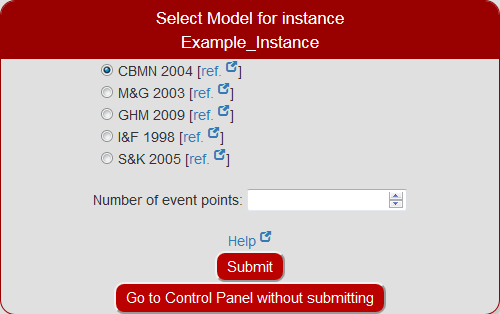
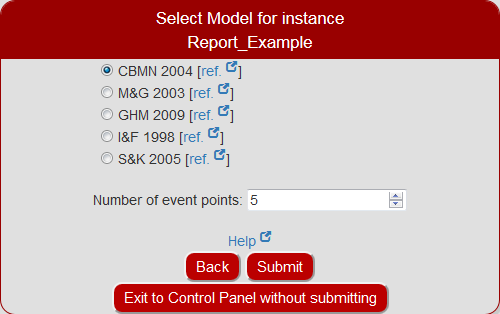
Latest

Changed region(s): [[0.21, 0.8025, 0.78, 1.0], [0.36, 0.1146, 0.66, 0.172], [0.48, 0.6306, 0.54, 0.6592]]

diff --git a/Chapters/5.CaseStudy.tex b/Chapters/5.CaseStudy.tex
@@ -4,7 +4,7 @@
 \section{Instance description}
 In this chapter, we present a case study of a well known scheduling instance from \cite{KONDILI1993211}, optimized for the deterministic case using the described online tool. The production of two products 1 and 2 from three feed stocks A, B and C takes place according to the STN representation given in Fig. \ref{fig:STN}. This instance has four intermediate states and five tasks.
 
-\begin{figure}[htbp]
+\begin{figure}[htb]
 \centering
 \fbox{\includegraphics[width=\linewidth]{Images/STN.png}}
 \caption{State task network for the example instance}
@@ -51,15 +51,13 @@ Separation   &              &             &                &              &     
 
 \section{Defining instance parameters}
 \subsection{Defining units}
-\begin{figure}[htb]
+\begin{figure}[htbp]
 \centering
 \includegraphics[width=\linewidth]{Images/DefineUnits.png}
 \caption{Units input into webtool}
 \label{fig:defUnits}
 \end{figure}
 Unit names and maximum capacities from Table \ref{tab:tasks} are input into the units table of the web tool as shown in Fig. \ref{fig:defUnits}.
-
-
 
 \subsection{Defining states}
 \begin{figure}[htbp]
@@ -72,7 +70,7 @@ State names, maximum storage capacities and initial levels from Table \ref{tab:s
 
 
 \subsection{Defining tasks}
-\begin{figure}[htb]
+\begin{figure}[htbp]
 \centering
 \includegraphics[width=\linewidth]{Images/DefineTasks.png}
 \caption{Tasks input into webtool}
@@ -84,7 +82,7 @@ This instance does not involve utilities. Hence we can skip utilities input. For
 
 \subsection{Objective}
 
-\begin{figure}[htb]
+\begin{figure}[htbp]
 \centering
 \includegraphics[width=0.8\linewidth]{Images/DefineObjective.png}
 \caption{Objective selection}
@@ -93,16 +91,46 @@ This instance does not involve utilities. Hence we can skip utilities input. For
 
 For this case, we will consider the case of maximization of profit. After successful completion of the tasks input, the objective selection options are available as shown in Fig. \ref{fig:selectObjective}. After clicking on ``Maximize profit'', the horizon and price input screen appears as shown in Fig. \ref{fig:prices}. The instance definition is complete after input of horizon and price data for Product 1 and Product 2 from Table \ref{tab:statelevels}. We will consider an 8 hour horizon for this case study.
 
-\begin{figure}[htb]
+\begin{figure}[htbp]
 \centering
 \includegraphics[width=0.8\linewidth]{Images/Prices.png}
 \caption{Horizon and price input}
 \label{fig:prices}
 \end{figure}
 
-\subsection{Model and event points}
+\section{Submission}
 
+\begin{figure}[htbp]
+\centering
+\includegraphics[width=0.8\linewidth]{Images/SelectModel.png}
+\caption{Number of event points and model selection}
+\label{fig:selectModel}
+\end{figure}
 
+Once the instance is complete, the submit button in the control panel will be activated. Clicking the ``Submit'' button will display the model selection table as shown in Fig. \ref{fig:selectModel}. For the deterministic version, the five models described in Chapter \ref{chap:models} are available. The CBMN 2004 model is selected by default. 
 
+\subsection{Number of event points}
 
+Continuous-time formulations for short-term scheduling are based on a set of time points (unit specific or global), which are non-uniformly distributed along the scheduling horizon. A limitation of these approaches is that the number of time points required to represent the optimal schedule is unknown a priori, so multiple MILP models need to be solved to reach the optimal solution. A suitable strategy is to start by adopting a small number of event points and gradually increase this number and repeatedly solve the model until the objective values does not show an improvement. For this particular instance, 5 event points result in the optimal schedule. Clicking the ``Submit'' on this page will add the instance to the processing queue.
+
+\section{Results}
+\begin{figure}[htbp]
+\centering
+\includegraphics[width=\linewidth]{Images/Results.png}
+\caption{Model statistics and Gantt chart}
+\label{fig:results}
+\end{figure}
+
+Once the processing of the instance has completed, the ``Submission Status'' field on the control panel for the instance will change to ``Results Available''. Clicking on the ``Results'' button will show model statistics and the optimized Gantt Chart as shown in Fig. \ref{fig:results}.
+
+\begin{figure}[htbp]
+\centering
+\includegraphics[width=\linewidth]{Images/ProductInventory.png}
+\caption{Product 1 \& Product 2 inventory vs. time}
+\label{fig:stateInventory}
+\end{figure}
+
+A proven optimal solution is found fairly quickly by CPLEX. The objective value reported by the tool is the same as that reported in previous literature for this instance. Inventory level charts for Product 1 and Product 2, (Fig. \ref{fig:stateInventory}) show that around 70 units of Product 1 and 80 units of Product 2 will be manufactured.
+
+A number of different scenarios 
 

diff --git a/Chapters/3.Models.tex b/Chapters/3.Models.tex
@@ -1,6 +1,6 @@
 \chapter{Scheduling models used}
 \thispagestyle{plain}
-
+\label{chap:models}
 This chapter briefly describes the scheduling models supported by the online optimization tool. All the models are continuous time, mixed-integer linear models and can be readily solved with standard MILP optimization solvers. All models can account for two objectives: maximization of profit and minimization of makespan.
 
 \section{CBMN 2004}
@@ -155,7 +155,7 @@ This model \citep{Ierapetritou} was the first introduction of the concept of eve
 		     & T_{ijn}^s \le H &&  i \in \mathcal{I}, \forall j \in \mathcal{J}_i, n \in \mathcal{N}
 \end{align}
 
-\section{SK}
+\section{S\&K 2005}
 This model \citep{Karimi} considers a synchronous slot-based time representation where the time horizon is divided into multiple time slots of varying lengths. It uses generalized recipe diagrams for process representation, wherein a storage task is used to model the mixing and splitting of the same material streams. Tasks are allowed to continue processing over multiple time slots. Tasks are allowed to finish before the end of the time slot, making the model inherently similar to the global event-based models, except for the differences in accounting the various balances. No resources other than materials and equipment are considered, hence it cannot support instances with utilities.
 
 \begin{align}

diff --git a/Chapters/4.GUIDesign.tex b/Chapters/4.GUIDesign.tex
@@ -226,18 +226,12 @@ Error messages are displayed to ensure that the user input is valid and the inst
 
 \begin{figure}[htbp]
 \centering
-\includegraphics[width=0.8\linewidth]{Images/SelectModel.png}
-\caption{Model selection}
+\includegraphics[width=0.8\linewidth]{Images/SelectModelUtilities.png}
+\caption{Model selection table for an instance involving utilities}
 \label{fig:selectModel}
 \end{figure}
 
 On successful completion, an instance becomes available for submission. A screenshot of the model selection table is shown in Fig. \ref{fig:selectModel}. The CBMN 2004 model is selected by default for both the deterministic and uncertain versions. The I\&F 1998 and S\&K 2005 models do not support instances with utilities involved.
-
-\subsection{Number of event points}
-
-Continuous-time formulations for short-term scheduling are based on a set of time points (unit specific or global), which are non-uniformly distributed along the scheduling horizon. A limitation of these approaches is that the number of time points required to represent the optimal schedule is unknown a priori, so multiple MILP models need to be solved to reach the optimal solution. A suitable strategy is to start by adopting a small number of event points and gradually increase this number and repeatedly solve the model until the objective values does not show an improvement.
-
-
 
 
 
